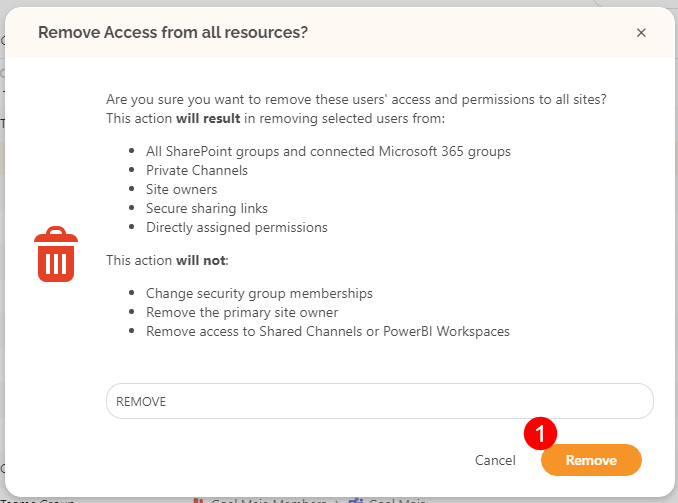
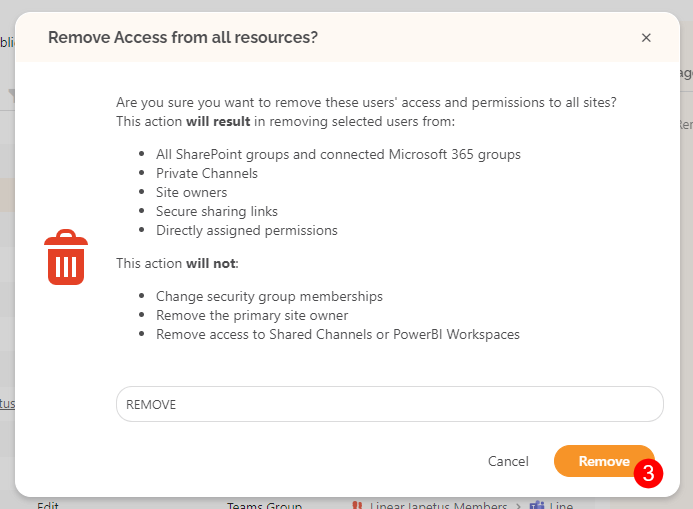
screenshots changed

diff --git a/access-management/check-access-for-specific-user.md b/access-management/check-access-for-specific-user.md
@@ -46,9 +46,13 @@ It will redirect you to the **SysKit Point Report Center**, where you can click 
 **Hint! -** you can also access the **User Access report** through various other **SysKit Point** **reports**, **User overview screen**, and **User details screens**.
 {% endhint %}
 
-Now that you are located on the **User Access selection** **screen**, choose **one** or **multiple users** \(1\) you wish to generate the report for and click the **Run Report button** \(2\).
+Now that you are located on the **User Access selection** **screen**:
+* choose **one** or **multiple users** \(1\) you wish to generate the report for
+* select the **type of workspaces** \(2\) to show on the generated report 
+  * you can choose among Sites, Microsoft Teams, Microsoft 365 Groups, One Drive and Power BI   
+* click the **Run Report button** \(3\) to generate the report
 
-![User Access - Selection screen](../.gitbook/assets/user_access_docs3.png)
+![User Access - Selection screen](../.gitbook/assets/check-access-for-specific-user_selection-screen.png)
 
 ### Available Options and Actions
 
@@ -70,7 +74,7 @@ As the **User Access report** is a tree structure report, you can see:
 ### Remove Access
 
 There are several ways to remove access for a user through the report: 
-  * To remove all access the User has, **select the User's name (1)**. 
+  * **To remove all access the User has**, **select the User's name (1)**. 
      * On the right side of the screen, the option to **Remove Access (2)** will show.
        * After clicking the Remove Access action, a **pop-up will appear**, providing more details on what the action will entail and prompting you to confirm by typing **REMOVE** in the space available.
        * Clicking the **Remove(3)** button will finalize the action.  
@@ -86,10 +90,10 @@ Once the action is completed, the User will no longer have any resources assigne
 
 {% hint style="warning" %}
 **Please note!**  
-For any User that had their access removed, they will successfully be removed from any private channels they had access to; however, at this time, it is **not possible to remove access to shared channels and Power BI workspaces**. Attempting this action will result in an error.  
+For any user that had their access removed, they will successfully be removed from any private channels they had access to; however, at this time, it is **not possible to remove access to shared channels and Power BI workspaces**.
 {% endhint %}
 
-You can also remove access for a specific user by clicking the User's name from the report. This will redirect you to the **user details screen**.
+You can also remove access for a specific user by clicking the user's name from the report. This will redirect you to the **user details screen**.
   * Scroll down to the **Access tile (1)**, and you'll have the option to either **select all resources (2)** or select them individually to perform the **Remove Access (3)** action.
 
 ![User Details Screen - Remove Access](../.gitbook/assets/check-access-for-specific-user_user-details-screen.png)
